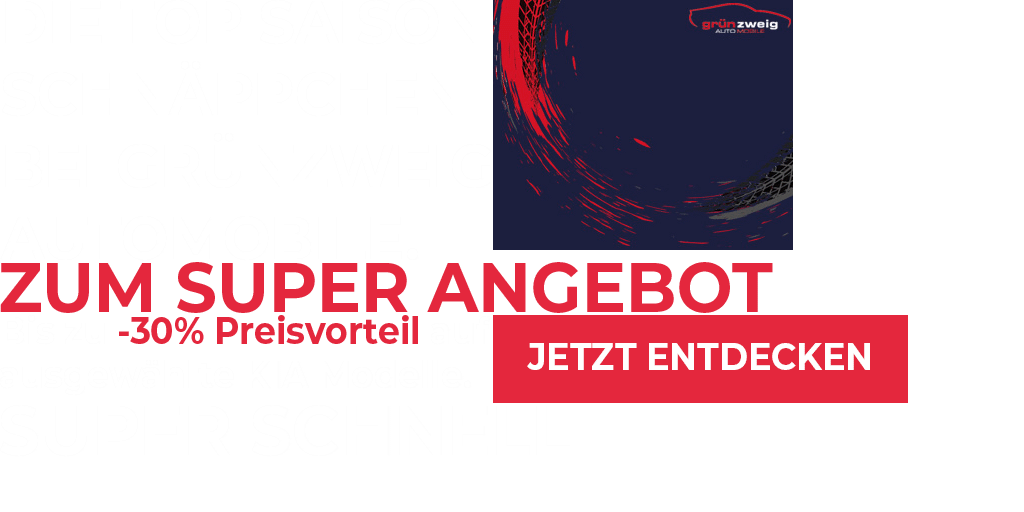
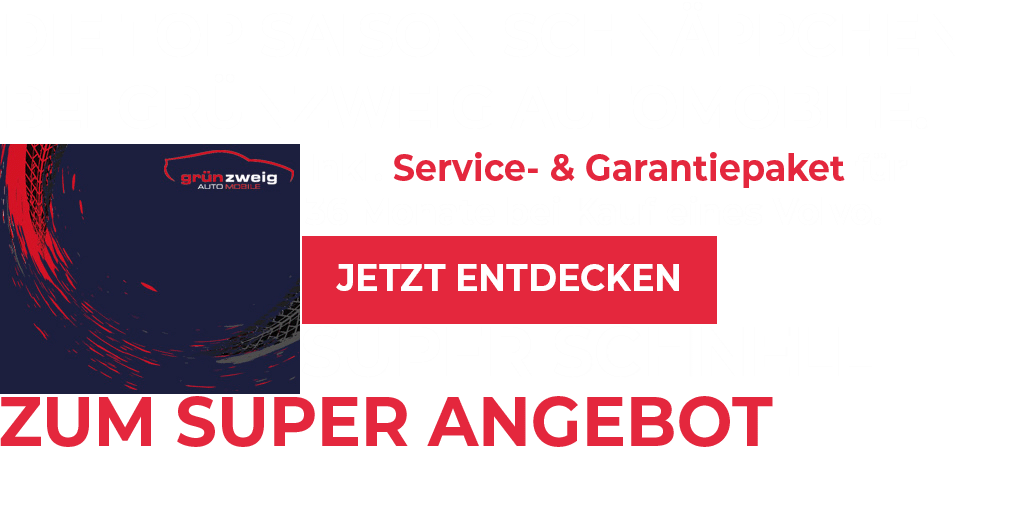
uipasdga
gupsga

diff --git a/pv_gz/index.js b/pv_gz/index.js
@@ -3,7 +3,7 @@
 var p; // shortcut to reference prototypes
 var lib={};var ss={};var img={};
 lib.ssMetadata = [
-		{name:"index_atlas_", frames: [[493,0,300,250],[493,315,415,88],[0,0,491,260],[0,262,773,51],[0,405,570,51],[0,315,491,80]]}
+		{name:"index_atlas_", frames: [[0,144,300,250],[302,236,415,88],[0,0,969,142],[0,396,773,51],[302,326,570,51],[302,144,625,90]]}
 ];
 
 
@@ -94,7 +94,7 @@ function getMCSymbolPrototype(symbol, nominalBounds, frameBounds) {
 
 	this._renderFirstFrame();
 
-}).prototype = getMCSymbolPrototype(lib.Symbol3, new cjs.Rectangle(0,0,231.8,37.8), null);
+}).prototype = getMCSymbolPrototype(lib.Symbol3, new cjs.Rectangle(0,0,295.1,42.5), null);
 
 
 (lib.Symbol2 = function(mode,startPosition,loop) {
@@ -131,7 +131,7 @@ if (loop == null) { loop = false; }	this.initialize(mode,startPosition,loop,{});
 
 	// button
 	this.instance = new lib.Symbol4();
-	this.instance.setTransform(112.9,223,1,1,0,0,0,84.9,18);
+	this.instance.setTransform(105.9,197,1,1,0,0,0,84.9,18);
 	this.instance.alpha = 0;
 	this.instance._off = true;
 
@@ -139,15 +139,15 @@ if (loop == null) { loop = false; }	this.initialize(mode,startPosition,loop,{});
 
 	// vorteil
 	this.instance_1 = new lib.Symbol3();
-	this.instance_1.setTransform(143.9,174.9,1,1,0,0,0,115.9,18.9);
+	this.instance_1.setTransform(122.05,142.9,0.8719,0.8717,0,0,0,115.9,18.7);
 	this.instance_1.alpha = 0;
 	this.instance_1._off = true;
 
-	this.timeline.addTween(cjs.Tween.get(this.instance_1).wait(78).to({_off:false},0).wait(1).to({alpha:0.0714},0).wait(1).to({alpha:0.1429},0).wait(1).to({alpha:0.2143},0).wait(1).to({alpha:0.2857},0).wait(1).to({alpha:0.3571},0).wait(1).to({alpha:0.4286},0).wait(1).to({alpha:0.5},0).wait(1).to({alpha:0.5714},0).wait(1).to({alpha:0.6429},0).wait(1).to({alpha:0.7143},0).wait(1).to({alpha:0.7857},0).wait(1).to({alpha:0.8571},0).wait(1).to({alpha:0.9286},0).wait(1).to({alpha:1},0).wait(28));
+	this.timeline.addTween(cjs.Tween.get(this.instance_1).wait(78).to({_off:false},0).wait(1).to({regX:147.5,regY:21.2,scaleY:0.8718,x:149.55,y:145.05,alpha:0.0714},0).wait(1).to({alpha:0.1429},0).wait(1).to({alpha:0.2143},0).wait(1).to({alpha:0.2857},0).wait(1).to({x:149.6,alpha:0.3571},0).wait(1).to({alpha:0.4286},0).wait(1).to({alpha:0.5},0).wait(1).to({alpha:0.5714},0).wait(1).to({alpha:0.6429},0).wait(1).to({alpha:0.7143},0).wait(1).to({alpha:0.7857},0).wait(1).to({scaleX:0.8718,alpha:0.8571},0).wait(1).to({alpha:0.9286},0).wait(1).to({alpha:1},0).wait(28));
 
 	// header
 	this.instance_2 = new lib.header();
-	this.instance_2.setTransform(28,38,0.4,0.4);
+	this.instance_2.setTransform(19,69,0.271,0.271);
 	this.instance_2._off = true;
 
 	this.timeline.addTween(cjs.Tween.get(this.instance_2).wait(64).to({_off:false},0).wait(56));
@@ -184,7 +184,7 @@ lib.properties = {
 	color: "#FFFFFF",
 	opacity: 1.00,
 	manifest: [
-		{src:"images/index_atlas_.png?1583154388009", id:"index_atlas_"}
+		{src:"images/index_atlas_.png", id:"index_atlas_"}
 	],
 	preloads: []
 };

diff --git a/pv_gz/index.html b/pv_gz/index.html
@@ -14,7 +14,21 @@
 <title>index</title>
 <!-- write your code here -->
 <script src="https://code.createjs.com/1.0.0/createjs.min.js"></script>
-<script src="index.js?1583154388133"></script>
+<script src="index.js"></script>
+<script>
+var getUriParams = function() {
+	var query_string = {}
+	var query = window.location.search.substring(1);
+	var parmsArray = query.split('&');
+	if(parmsArray.length <= 0) return query_string;
+	for(var i = 0; i < parmsArray.length; i++) {
+		var pair = parmsArray[i].split('=');
+		var val = decodeURIComponent(pair[1]);
+		if (val != '' && pair[0] != '') query_string[pair[0]] = val;
+	}
+	return query_string;
+}();
+</script>
 <script>
 var canvas, stage, exportRoot, anim_container, dom_overlay_container, fnStartAnimation;
 function init() {
@@ -59,10 +73,15 @@ function handleComplete(evt,comp) {
 <!-- write your code here -->
 </head>
 <body onload="init();" style="margin:0px;">
-	<div id="animation_container" style="background-color:rgba(255, 255, 255, 1.00); width:300px; height:250px">
-		<canvas id="canvas" width="300" height="250" style="position: absolute; display: block; background-color:rgba(255, 255, 255, 1.00);"></canvas>
-		<div id="dom_overlay_container" style="pointer-events:none; overflow:hidden; width:300px; height:250px; position: absolute; left: 0px; top: 0px; display: block;">
+	<a href="#clicktag" id="IAB_clicktag" target=“_blank“>
+		<div id="animation_container" style="background-color:rgba(255, 255, 255, 1.00); width:300px; height:250px">
+			<canvas id="canvas" width="300" height="250" style="position: absolute; display: block; background-color:rgba(255, 255, 255, 1.00);"></canvas>
+			<div id="dom_overlay_container" style="pointer-events:none; overflow:hidden; width:300px; height:250px; position: absolute; left: 0px; top: 0px; display: block;">
+			</div>
 		</div>
-	</div>
+	</a>
+<script>
+	document.getElementById('IAB_clicktag').setAttribute('href',getUriParams.clicktag);
+</script>
 </body>
 </html>
